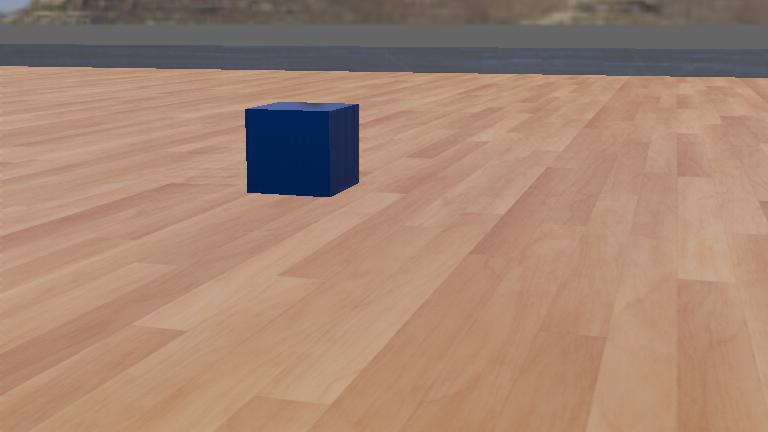
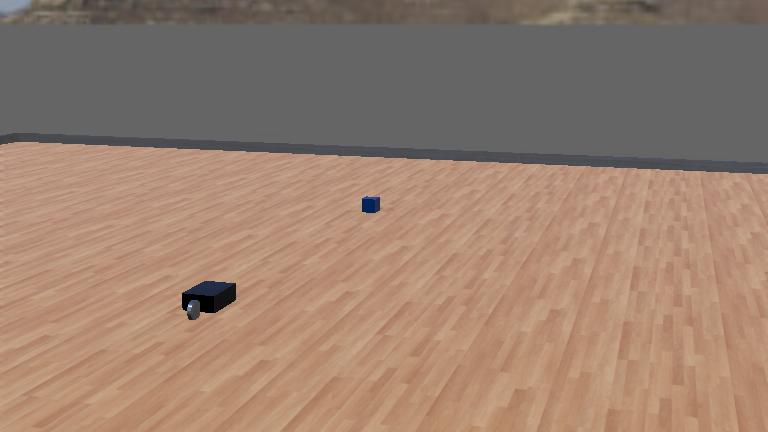
Added PID and Stopping Sense

diff --git a/controllers/my_Robot_Controller/my_Robot_Controller.py b/controllers/my_Robot_Controller/my_Robot_Controller.py
@@ -24,8 +24,18 @@ imu.enable(timestep)
 lidar.enable(timestep)
 left_encoder.enable(timestep)
 right_encoder.enable(timestep)
+target_x = -2.0
+target_y = 2.0
 
+Kp = 2.0
+Ki = 0.0
+Kd = 0.5
+
+integral = 0.0
+last_error = 0.0
+base_speed = 5.0
 while robot.step(timestep) != -1:
+    print("x,y:", x, y)
     print(left_encoder.getValue(), right_encoder.getValue())
     roll, pitch, yaw= imu.getRollPitchYaw()
     print(yaw)
@@ -56,3 +66,19 @@ while robot.step(timestep) != -1:
     theta+= delta_theta
     print(x, y, theta)
     print(f"pos=({x:.2f}, {y:.2f}) heading={theta:.2f} obstacle={closest:.2f}m")
+    desired_theta = math.atan2(target_y - y, target_x - x)
+    error = desired_theta - theta
+    error = math.atan2(math.sin(error), math.cos(error))
+    dt = timestep / 1000.0
+    integral += error * dt
+    derivative = (error - last_error) / dt
+    correction = Kp * error + Ki * integral + Kd * derivative
+    last_error = error
+    distance_to_target = math.sqrt((target_x - x)**2 + (target_y - y)**2)
+    print("dist:", distance_to_target)
+    if distance_to_target < 0.2:
+        left_motor.setVelocity(0)
+        right_motor.setVelocity(0)
+    else:
+        left_motor.setVelocity(base_speed - correction)
+        right_motor.setVelocity(base_speed + correction)
